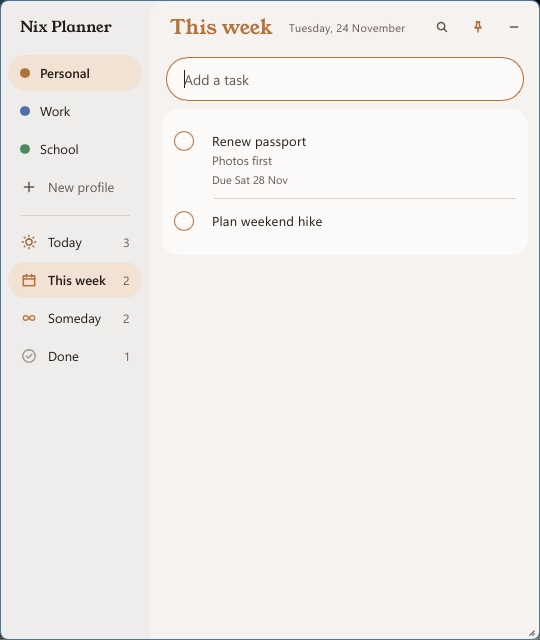
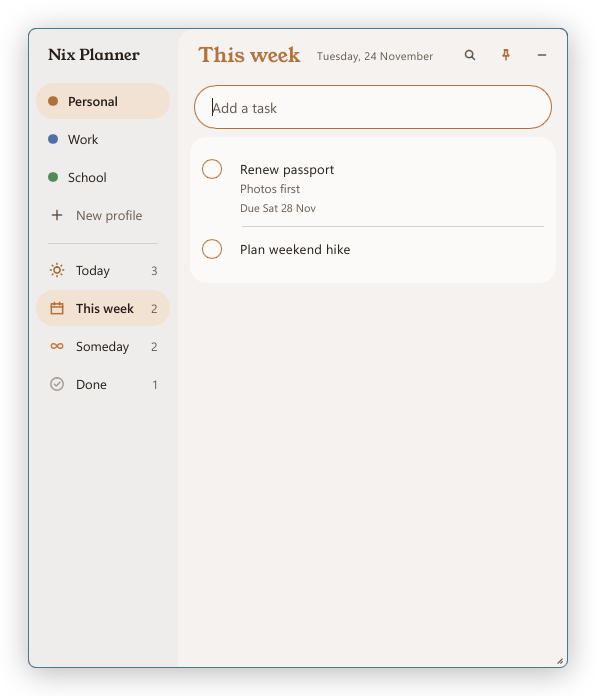
Round screenshot corners, add shadows and a widget screenshot

diff --git a/README.md b/README.md
@@ -11,7 +11,7 @@ One native `.exe`. No browser engine, no runtime, no installer.
 [![License: MIT](https://img.shields.io/badge/license-MIT-4E8A5A)](LICENSE)
 ![Built with Rust and Slint](https://img.shields.io/badge/built%20with-Rust%20%2B%20Slint-B0703A)
 
-<img src="docs/screenshots/work-today.png" alt="Nix Planner showing the Today page of the Work profile" width="540">
+<img src="docs/screenshots/work-today.png" alt="Nix Planner showing the Today page of the Work profile" width="596">
 
 </div>
 
@@ -20,9 +20,9 @@ out of the way. It is written in Rust with [Slint](https://slint.dev) and render
 so it idles at about 0% CPU and uses roughly 5 MB of private memory.
 
 <p align="center">
-  <img src="docs/screenshots/personal-week.png" alt="The This week page of the Personal profile, tinted brown" width="400">
+  <img src="docs/screenshots/personal-week.png" alt="The This week page of the Personal profile, tinted brown" width="380">
   &nbsp;
-  <img src="docs/screenshots/school-today.png" alt="The Today page of the School profile, tinted green" width="400">
+  <img src="docs/screenshots/school-today.png" alt="The Today page of the School profile, tinted green" width="380">
   <br>
   <sub>Each profile has its own colour, which tints the whole window.</sub>
 </p>
@@ -56,6 +56,10 @@ when you sign in, put a shortcut to it in your Startup folder (`Win+R`, then `sh
 ### Desktop widget
 
 A transparent card on the desktop shows today's open tasks for the profile on show. Tick one to complete it.
+
+<p align="center">
+  <img src="docs/screenshots/widget.png" alt="The desktop widget listing today's tasks over a dark wallpaper" width="496">
+</p>
 
 - Win+D (Show desktop) leaves it in place.
 - It stays below your other windows and out of Alt+Tab, and Windows can't snap or maximise it.
